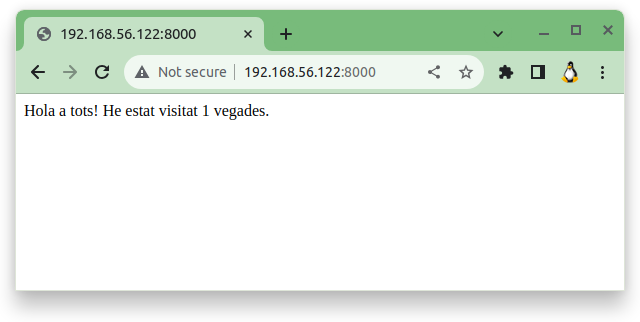
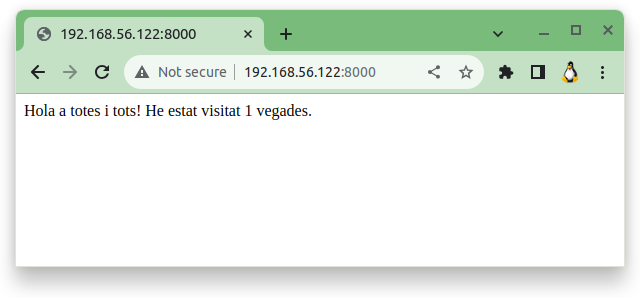
modified several files!

diff --git a/files/teo-docker-06-docker-compose.md b/files/teo-docker-06-docker-compose.md
@@ -115,9 +115,9 @@ def get_recompte_clics():
             time.sleep(0.5)
 
 @app.route('/')
-def hola():
-    count = get_recompte_clics()
-    return 'Hola a tots! He estat visitat {} vegades.\n'.format(count)
+def mostra_visites():
+    comptador = get_recompte_clics()
+    return f'Hola a totes i tots! He estat visitat {comptador} vegades.'
 ```
 
 En aquest exemple, **```redis```** és el nom d'amfitrió del contenidor **```redis```** a la xarxa de l'aplicació.
@@ -127,7 +127,7 @@ Utilitzem el **port predeterminat** per a **```Redis```**, **```6379```**.
 >
 > ### Gestió d'errors
 > 
-> Tingueu en compte la manera com la funció **```get_recompte_clics```** ha estat escrta.
+> Tingueu en compte la manera com la funció **```get_recompte_clics```** ha estat escrita.
 > Aquest bucle de reintent bàsic ens permet intentar la nostra sol·licitud diverses vegades si el servei **```redis```** no està disponible.
 > Això és útil a l'inici mentre l'aplicació està en línia, però també fa que l'aplicació sigui més resistent si cal reiniciar el servei **```Redis```** en qualsevol moment durant la vida útil de l'aplicació. En un **clúster**, això també ajuda a gestionar les caigudes de connexió momentània entre els nodes.
 > <hr> -->
@@ -333,7 +333,7 @@ En aquest cas, el codi es copia de manera estàtica a la imatge en temps de crea
 Hauríeu de veure un missatge al vostre navegador que digui:
 
 ```bash
-Hola a tots! He estat visitat 1 vegades.
+Hola a totes i tots! He estat visitat 1 vegades.
 ```
 
 ![Alt text](../images/image-016-docker-compose.png)
@@ -341,6 +341,7 @@ Hola a tots! He estat visitat 1 vegades.
 **6.3** Actualitza la pàgina.
 
 El nombre de visites hauria d'augmentar.
+
 
 ![Alt text](../images/image-017-docker-compose.png)
 

diff --git a/README.md b/README.md
@@ -12,5 +12,4 @@
 
 ## [Què és **```docker compose```**](./files/teo-docker-06-docker-compose.md)
 
-
-## [Primer contenidor amb *Wordpress*](./files/teo-docker-05-contenidor-amb-wordpress.md)
+<!-- ## [Primer contenidor amb *Wordpress*](./files/teo-docker-05-contenidor-amb-wordpress.md) -->
